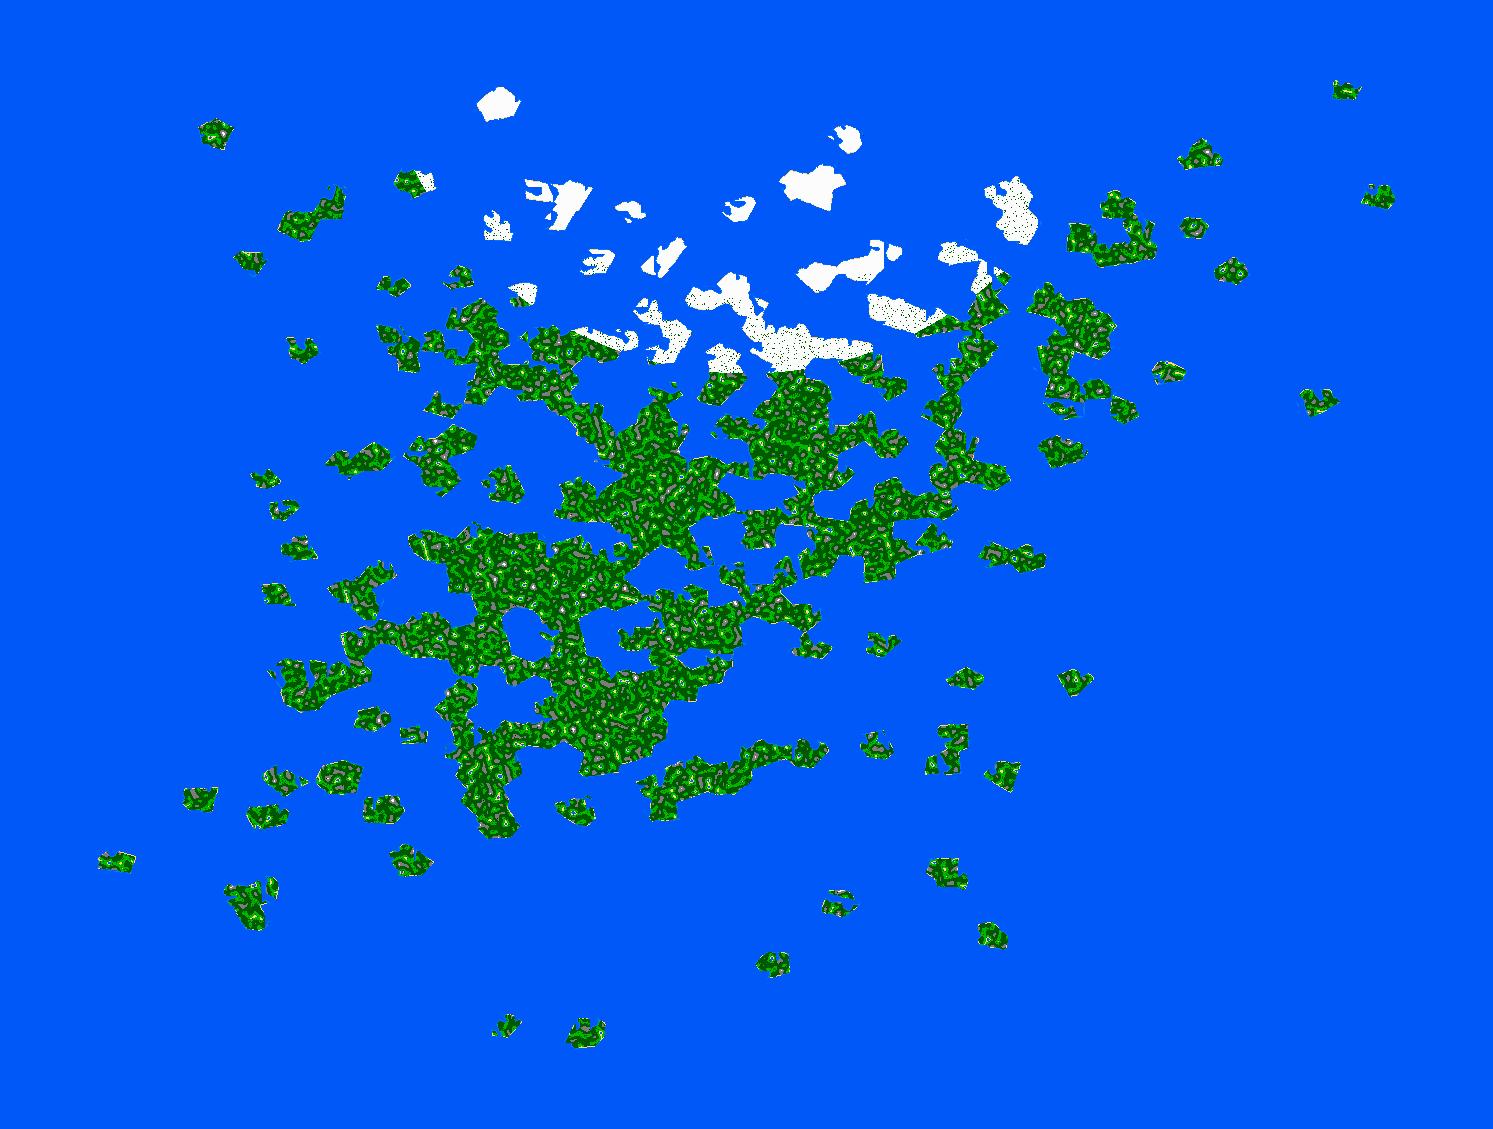
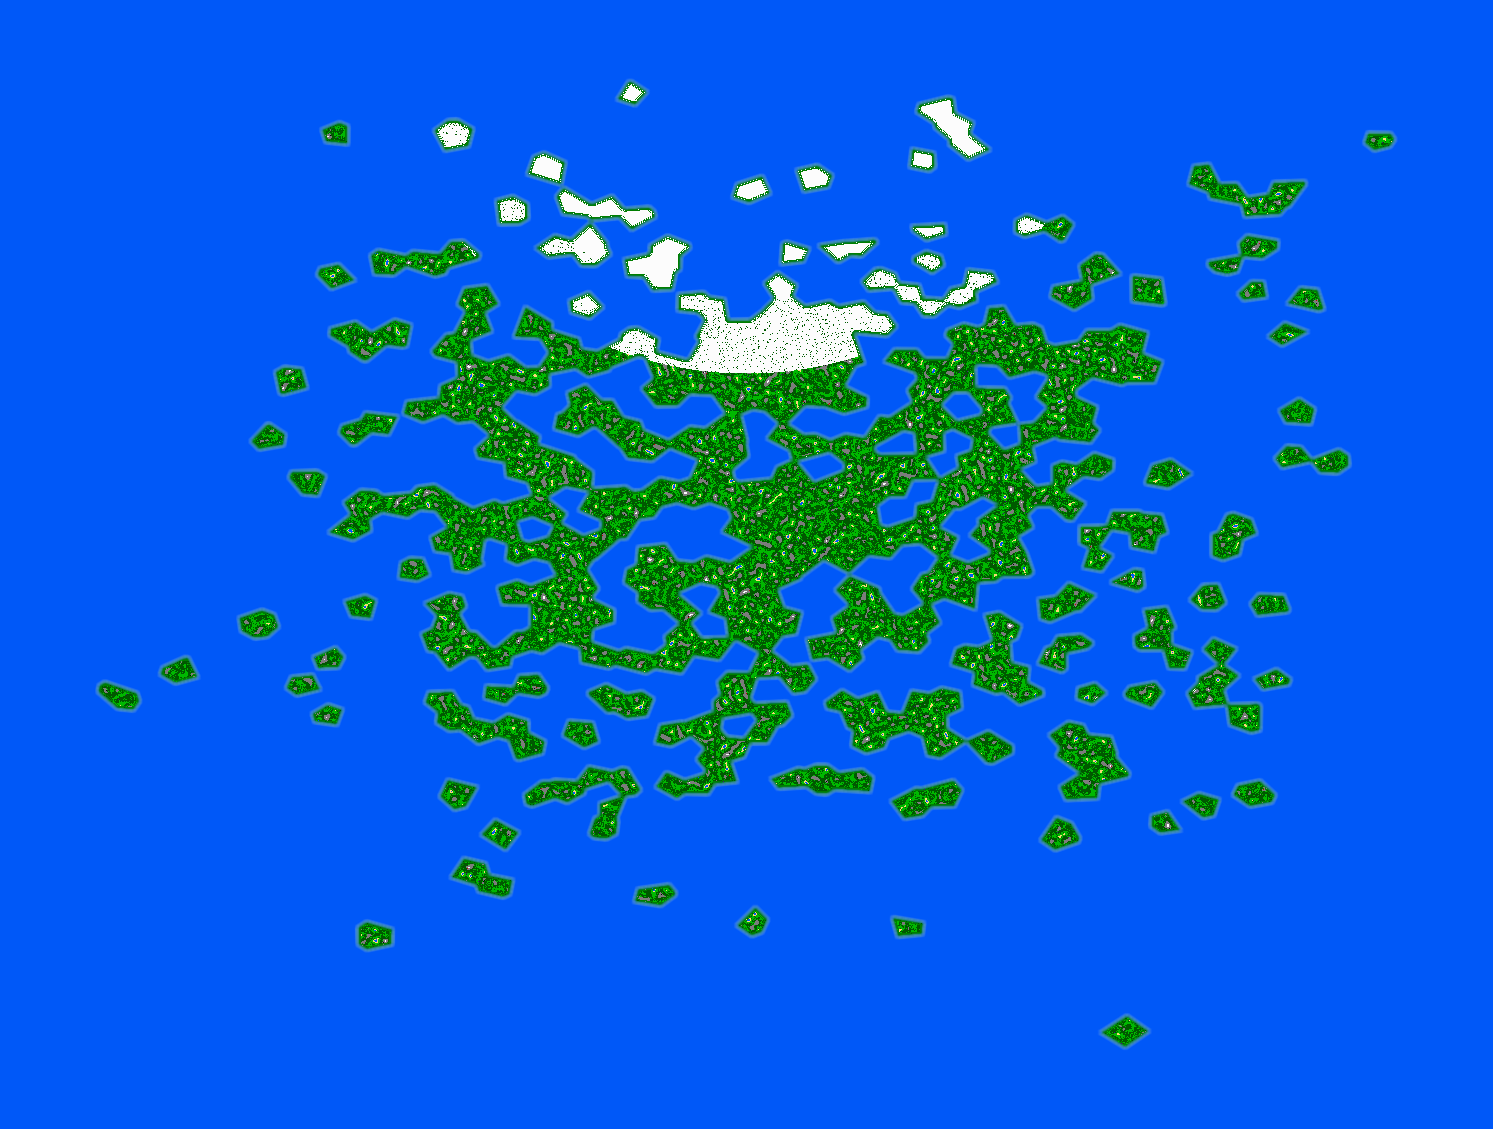
Fix voronoi reuse, opensimplex API, and mixer/font fallback

diff --git a/wanderland/render/renderer.py b/wanderland/render/renderer.py
@@ -19,9 +19,14 @@ class Renderer:
         self.local_tiles = assets.load_local_tiles()
         self.ui = assets.load_ui()
         self.player_sprites = assets.load_player_sprites()
-        self.font_large = pygame.font.SysFont("Plantin", 90)
-        self.font_medium = pygame.font.SysFont("Plantin", 40)
-        self.font_small = pygame.font.SysFont("Plantin", 20)
+        try:
+            self.font_large = pygame.font.SysFont("Plantin", 90)
+            self.font_medium = pygame.font.SysFont("Plantin", 40)
+            self.font_small = pygame.font.SysFont("Plantin", 20)
+        except (NotImplementedError, ImportError):
+            self.font_large = None
+            self.font_medium = None
+            self.font_small = None
     
     def clear(self, color: Tuple[int, int, int] = (0, 0, 0)) -> None:
         self.screen.fill(color)
@@ -143,14 +148,16 @@ class Renderer:
         else:
             self.screen.fill((0, 0, 0))
         
-        title = self.font_large.render("Wanderland", True, (255, 0, 0))
-        start = self.font_medium.render("New Game", True, (255, 0, 0))
+        title = self.font_large.render("Wanderland", True, (255, 0, 0)) if self.font_large else None
+        start = self.font_medium.render("New Game", True, (255, 0, 0)) if self.font_medium else None
         
-        title_x = CONFIG.width // 2 - title.get_width() // 2
-        start_x = CONFIG.width // 2 - start.get_width() // 2
+        title_x = CONFIG.width // 2 - (title.get_width() // 2 if title else 100)
+        start_x = CONFIG.width // 2 - (start.get_width() // 2 if start else 80)
         
-        self.screen.blit(title, (title_x, 100))
-        self.screen.blit(start, (start_x, 200))
+        if title:
+            self.screen.blit(title, (title_x, 100))
+        if start:
+            self.screen.blit(start, (start_x, 200))
         
         pygame.display.flip()
         
@@ -160,9 +167,10 @@ class Renderer:
                 exit()
             elif event.type == pygame.MOUSEBUTTONDOWN:
                 mx, my = pygame.mouse.get_pos()
-                start_rect = start.get_rect(topleft=(start_x, 200))
-                if start_rect.collidepoint(mx, my):
-                    return True
+                if start:
+                    start_rect = start.get_rect(topleft=(start_x, 200))
+                    if start_rect.collidepoint(mx, my):
+                        return True
             elif event.type == pygame.KEYDOWN:
                 if event.key == pygame.K_ESCAPE:
                     pygame.quit()
@@ -180,8 +188,9 @@ class Renderer:
         else:
             self.screen.fill((0, 0, 0))
         
-        label = self.font_medium.render(text, True, (255, 0, 0))
-        self.screen.blit(label, (CONFIG.width // 2 - label.get_width() // 2, 100))
+        if self.font_medium:
+            label = self.font_medium.render(text, True, (255, 0, 0))
+            self.screen.blit(label, (CONFIG.width // 2 - label.get_width() // 2, 100))
         pygame.display.flip()
     
     def _toggle_fullscreen(self) -> None:

diff --git a/wanderland/world/generator.py b/wanderland/world/generator.py
@@ -34,7 +34,9 @@ class WorldGenerator:
     
     def generate(self) -> None:
         """Generate the world map."""
-        self._generate_voronoi()
+        voronoi_path = Path("assets/voronoi_map.png")
+        if not voronoi_path.exists():
+            self._generate_voronoi()
         self._process_map()
         self._create_blocks()
         self.chunks = self._create_chunks()
@@ -66,8 +68,8 @@ class WorldGenerator:
                     water_set = self._check_water_edge(px, x, y, width, height)
                     
                     if self.simplex:
-                        value = self.simplex.noise2d(x / 6, y / 6)
-                        shore_value = self.simplex.noise2d(x / 8, y / 8)
+                        value = self.simplex.noise2(x / 6, y / 6)
+                        shore_value = self.simplex.noise2(x / 8, y / 8)
                     else:
                         value = random.uniform(-1, 1)
                         shore_value = random.uniform(-1, 1)

diff --git a/wanderland/core/game.py b/wanderland/core/game.py
@@ -17,7 +17,10 @@ class GameState:
     """Main game state manager."""
     
     def __init__(self) -> None:
-        pygame.mixer.pre_init(44100, 16, 2, 4096)
+        try:
+            pygame.mixer.pre_init(44100, 16, 2, 4096)
+        except (NotImplementedError, AttributeError):
+            pass
         pygame.init()
         
         self.screen = pygame.display.set_mode((CONFIG.width, CONFIG.height), pygame.DOUBLEBUF)
@@ -70,9 +73,10 @@ class GameState:
         
         # Play placeholder audio
         try:
-            pygame.mixer.music.load("assets/audio/placeholder.wav")
-            pygame.mixer.music.play()
-        except pygame.error:
+            if hasattr(pygame, 'mixer') and hasattr(pygame.mixer, 'music'):
+                pygame.mixer.music.load("assets/audio/placeholder.wav")
+                pygame.mixer.music.play()
+        except (pygame.error, AttributeError, NotImplementedError):
             pass
     
     def _game_loop(self) -> None:
